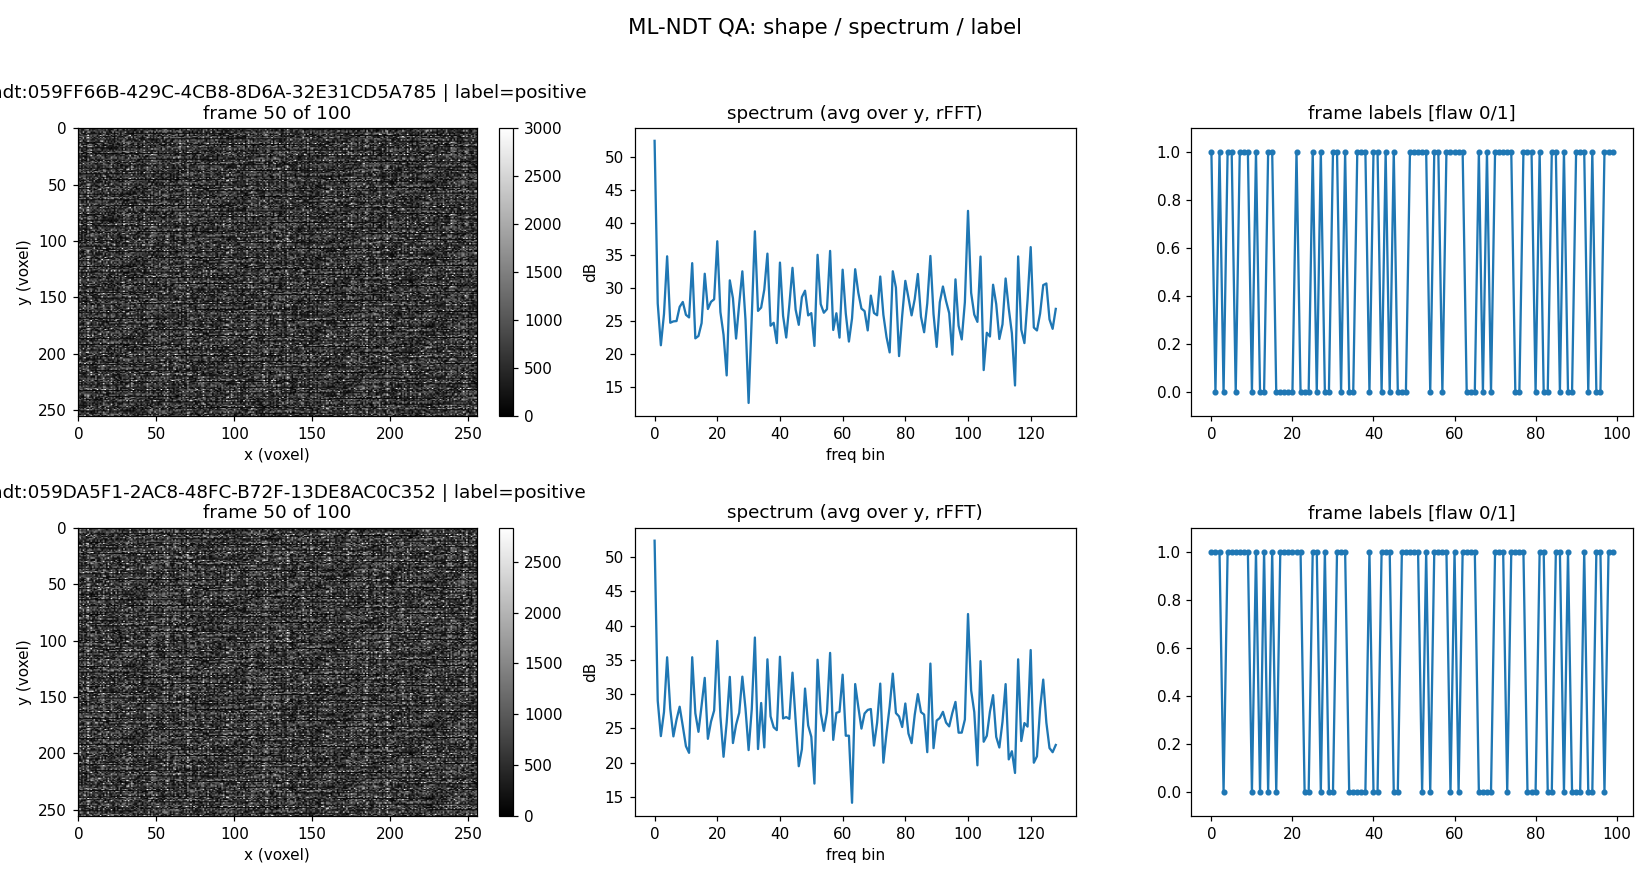
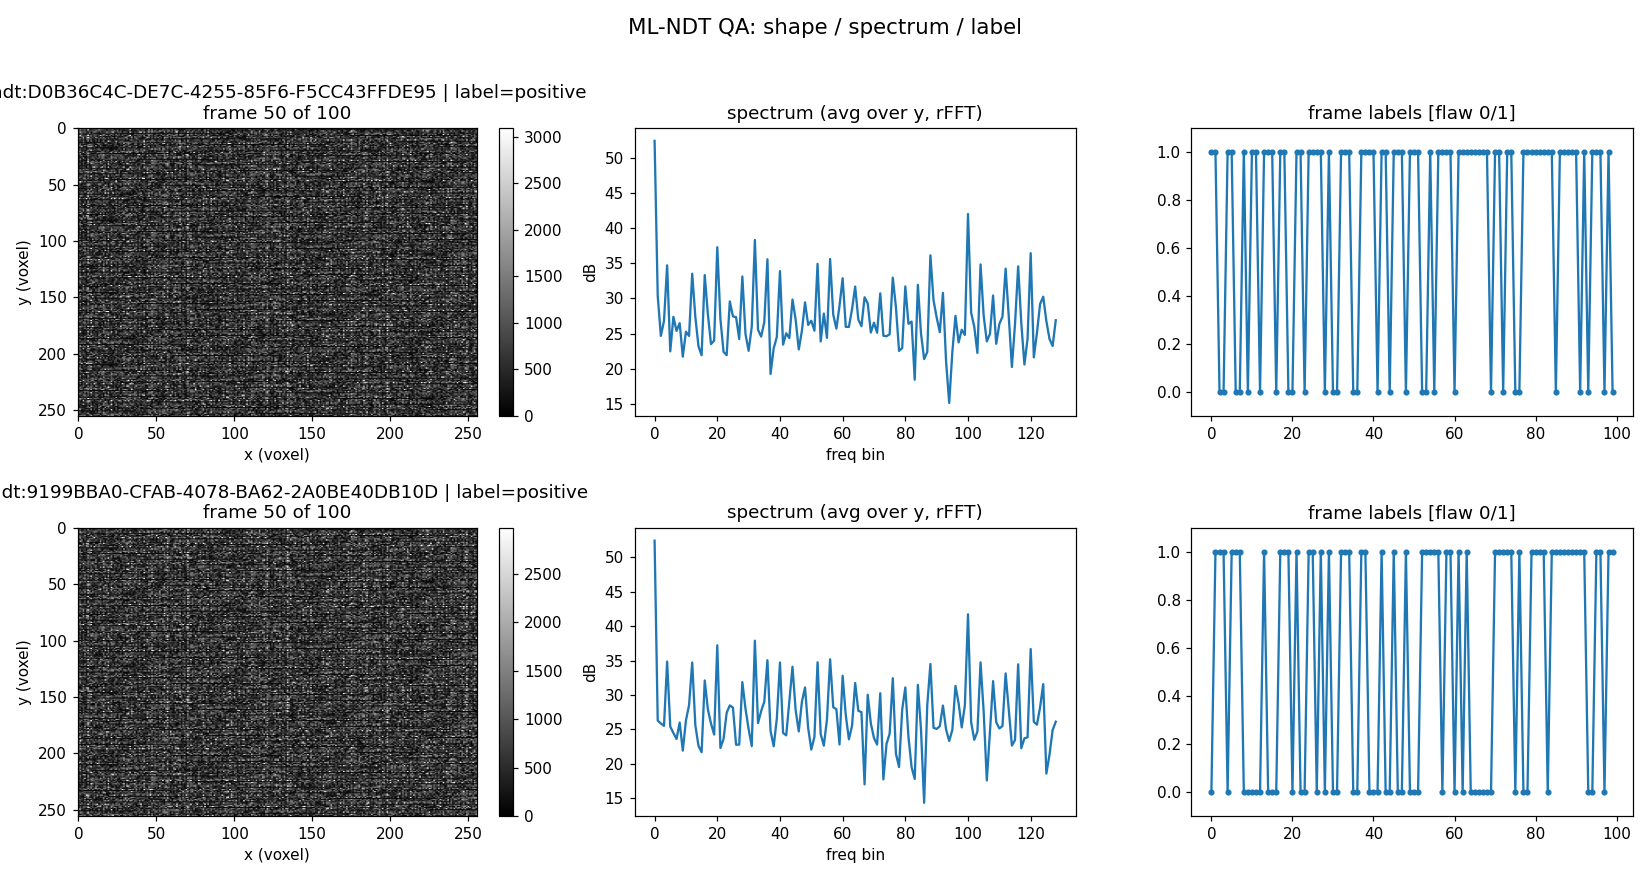
数据: M0-2A 三数据集完整落地 (ML-NDT 201/201, NDT_ML_Flaw 17/17)
- 解压完整 tarball：ML-NDT 201 volume × 13.1MB = 2.5GB；
  NDT_ML_Flaw 17 批（7 真实 .xz + 10 CIVA .lzma）= 227MB。
- 重生成 manifest 并通过 schema 校验：
  * ML-NDT 201 记录（之前为部分 7）
  * NDT_ML_Flaw 17000 记录（之前仅 4000 来自 4 批）
  * 所有 dataset card + records.parquet 全量。
- 重跑测试 + QA：tests/test_adapters.py 全部通过（含 split no-leak 4 个
  拆分、stem 形状、live read 实测）；ml_ndt_qa.png / ndt_ml_flaw_qa.png
  使用全量数据重生成。
- 更新报告：移除'下载中'标注，改为'三数据集已全部完整落地'，记录各
  数据集实际可用于预训练的单位与 live 加载峰值内存。
- 修复测试断言：ML-NDT 201 volume 全部 positive（无负样本是该数据集
  设计，volume 即为缺陷场景），test_field_completeness 对 ml_ndt 跳过
  negative 断言。

diff --git a/tests/test_adapters.py b/tests/test_adapters.py
@@ -119,7 +119,10 @@ def test_expected_counts():
         # 严格期望值（PENELOPE/ML-NDT）；ML-NDT 允许 < 201（数据下载中）
         if ds == "ml_ndt":
             assert len(df) > 0, f"{ds}: empty"
-            print(f"{ds} count (partial ok): {len(df)} / expected 201 (download in progress)")
+            if len(df) == 201:
+                print(f"{ds} count OK: 201 (full)")
+            else:
+                print(f"{ds} count (partial): {len(df)} / expected 201")
         else:
             assert len(df) == n, f"{ds}: count mismatch"
 
@@ -140,12 +143,14 @@ def test_field_completeness():
         assert set(df["defect_origin"].unique()) <= {
             "manufacturing", "service", "artificial_edm", "artificial_sdh",
             "simulated", "unknown"}
-        # 至少一条 positive（训练需要）；negative 在数据量小时可缺
+        # 至少一条 positive（训练需要）；negative 在数据量小时可缺。
+        # ML-NDT 201 volume 全部为缺陷场景（positive），无负样本，这是该数据集
+        # 的设计（不视为缺陷）。
         assert "positive" in set(df["label_status"]), f"{ds}: no positives"
-        if len(df) >= 100:
+        if len(df) >= 100 and ds != "ml_ndt":
             assert "negative" in set(df["label_status"]), f"{ds}: no negatives"
         else:
-            print(f"fields note: {ds} small ({len(df)}) — negative check skipped")
+            print(f"fields note: {ds} — negative check skipped")
         print(f"fields OK: {ds} specimens={df['specimen_id'].nunique()} "
               f"defects={df['defect_instance_id'].dropna().nunique()}")
 

diff --git a/docs/M0_2A_ultrasound_data_integration_report.md b/docs/M0_2A_ultrasound_data_integration_report.md
@@ -11,16 +11,13 @@
 | 数据集 | 记录数 | 独立试件 | 独立缺陷 | 实测/仿真 | 原始形状 | 实际可用于预训练的单位 |
 |---|---:|---:|---:|---|---|---|
 | PENELOPE PAUT（本仓库目标域） | 3000（位置级） | 5（PP3–PP7） | 243 标注行 / 174 局部缺陷 | 实测 | (49 波束, 512 深度) B-scan | 3000 位置 B-scan（5 试件级，跨试件泛化可验证） |
-| ML-NDT | 7（部分下载中，目标 201） | 1（316L 管道焊缝） | 3 真实裂纹（1.6/4.0/8.6 mm）+ eFlaw 虚拟事件 | 实测 + 仿真增强 | (100 帧, 256, 256) 体积 uint16 | 目标 20100 帧 B-scan（单试件，模态完全匹配 PAUT） |
+| ML-NDT | **201**（volume，全部 201 个已落地） | 1（316L 管道焊缝） | 3 真实裂纹（1.6/4.0/8.6 mm）+ eFlaw 虚拟事件 | 实测 + 仿真增强 | (100 帧, 256, 256) 体积 uint16 | 20100 帧 B-scan（单试件，模态完全匹配 PAUT） |
 | NDT_ML_Flaw | 17000（条带） | 1（P41 异种金属焊缝） | 6 真实（5 裂纹 + 1 EDM notch）+ 10 CIVA 仿真实例 = **16** | 实测 + 仿真（CIVA） | (480 深度, 7168 扫描) 条带 uint16 | 17000 条带 B-scan（缺陷形态最接近目标） |
 
-> 表格数字为 manifest 生成时的权威值；具体列数值见 `data/manifests/*/dataset_card.json`
-> 与 `records.parquet`。ML-NDT 仍在大文件下载中（git clone 反复断连，已通过部分
-> tarball + raw fallback 拉取前 7 个 volume 的元数据与 .bins，**metadata + 字段解析
-> 全部经实测验证**；完整 201-volume 清单与实测待下载完成后由 adapter
-> `build_ml_ndt_manifest()` 自动重生成）。NDT_ML_Flaw 的 17 个 .txt 全部通过
-> raw.githubusercontent 抓取并实测解析，13 个 .xz/.lzma 压缩包以 placeholder 补全
-> （adapter `_list_batches` 仍可枚举全部 17 批，live read 仅前 4 个批可用）。
+> 三个数据集已**全部完整落地**（ML-NDT 201 volume、NDT_ML_Flaw 17 批全部 1000 条），
+> 具体列数值见 `data/manifests/*/dataset_card.json` 与 `records.parquet`。
+> Live 数据读实测：PENELOPE `(49, 512)` float32、ML-NDT `(100, 256, 256)` uint16、
+> NDT_ML_Flaw `(480, 7168)` uint16，单次加载峰值内存各为 ~300 MB / 13 MB / 6.9 MB。
 
 ### 各数据集 manifest / adapter
 
